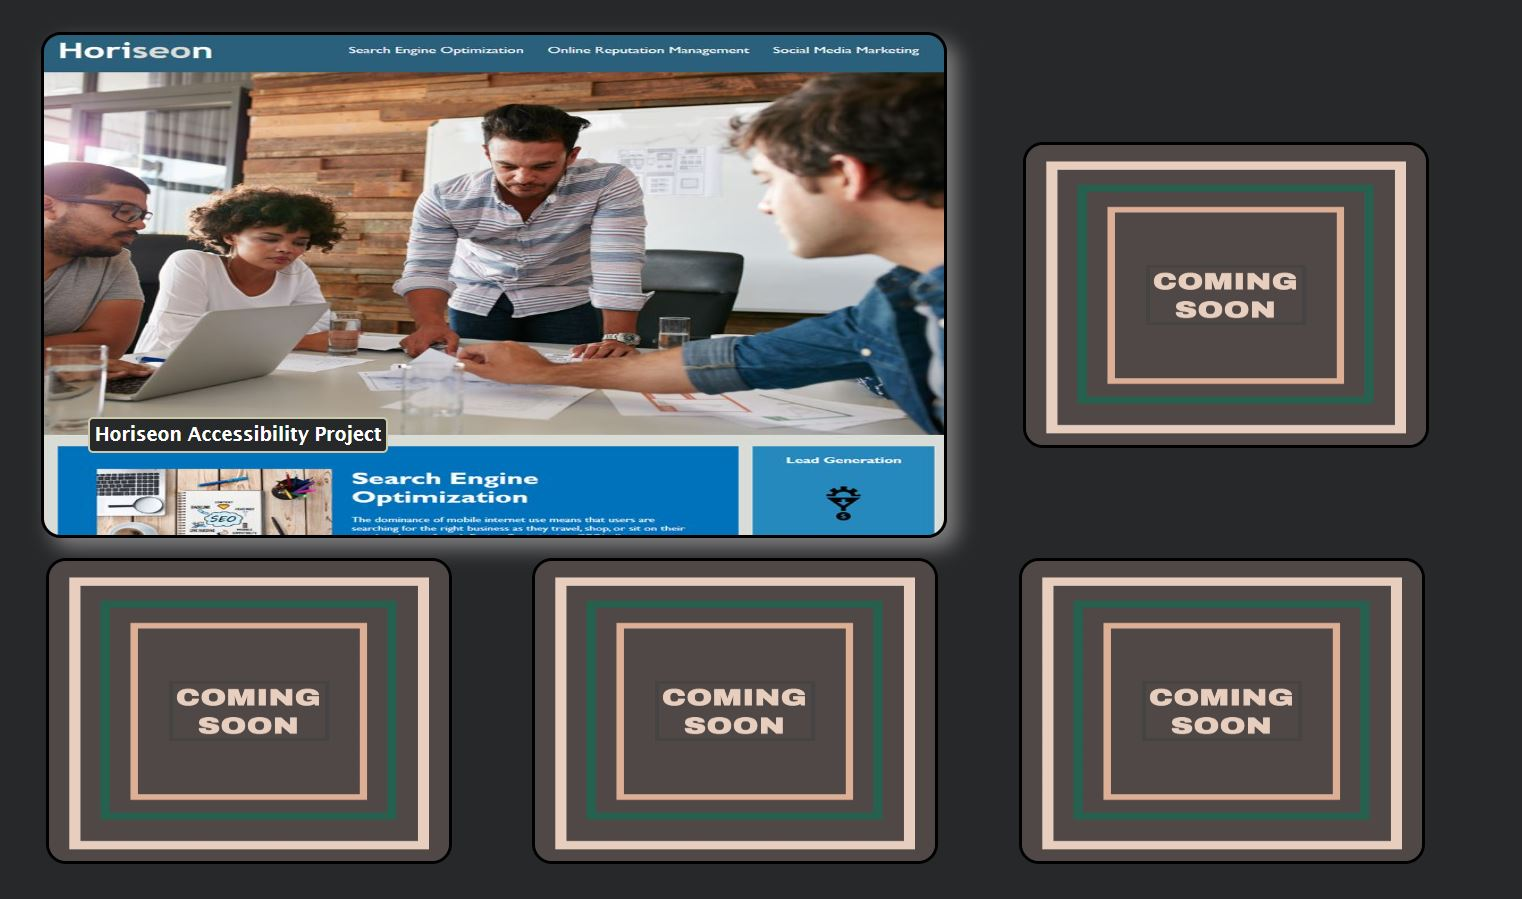
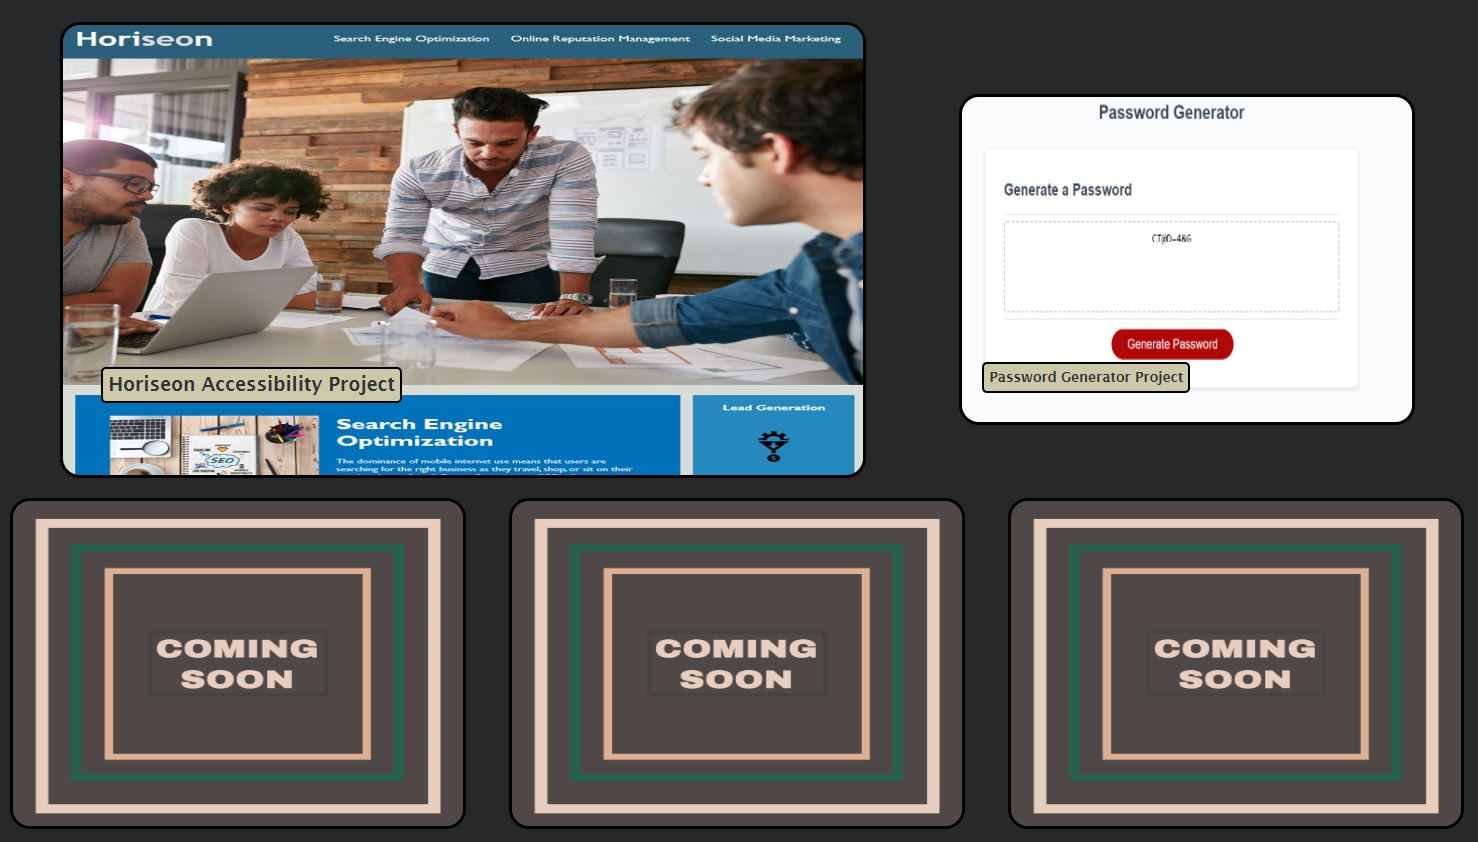
Add picture of new project and updated readme file

diff --git a/README.md b/README.md
@@ -31,7 +31,7 @@ Within this portfolio, you'll find a simple and clean design and layout. There's
 
 --------
 
-- Project Links (In project section): Here you will see images of my completed projects and some placeholders for future projects. You may click on a completed project of interest and it will direct you to that deployed project. At the moment there is only one project that is completed with a working link. However, as more projects are completed, they will be added to the portfolio.
+- Project Links (In project section): Here you will see images of my completed projects and some placeholders for future projects. You may click on a completed project of interest and it will direct you to that deployed project. At the moment there is only two projects that are completed with a working link. However, as more projects are completed, they will be added to the portfolio.
 
 ![project section screenshot](./assets/images/projects-screenshot.JPG)
 
